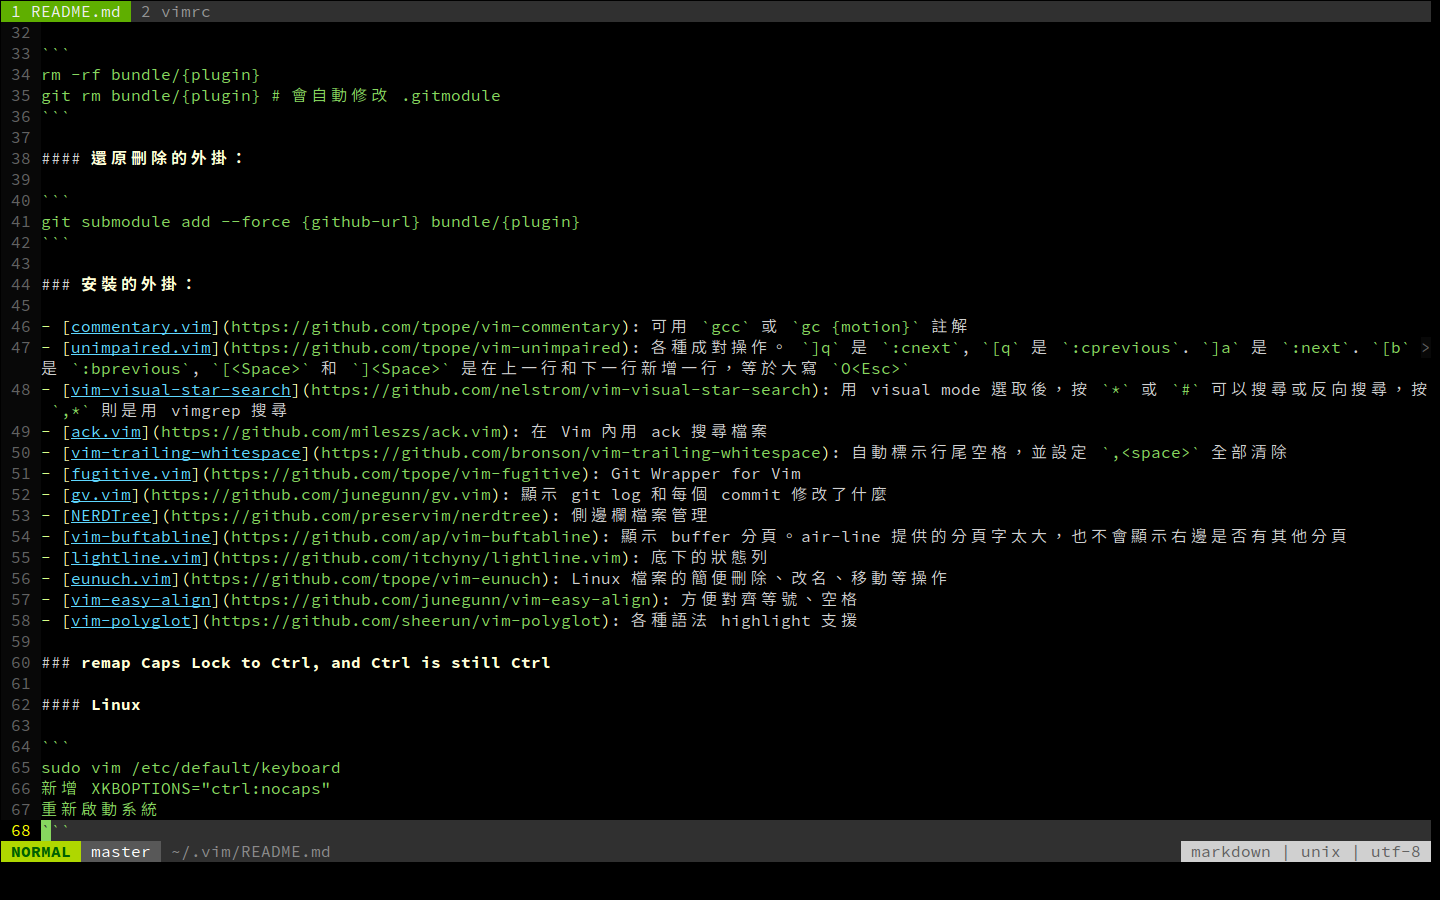
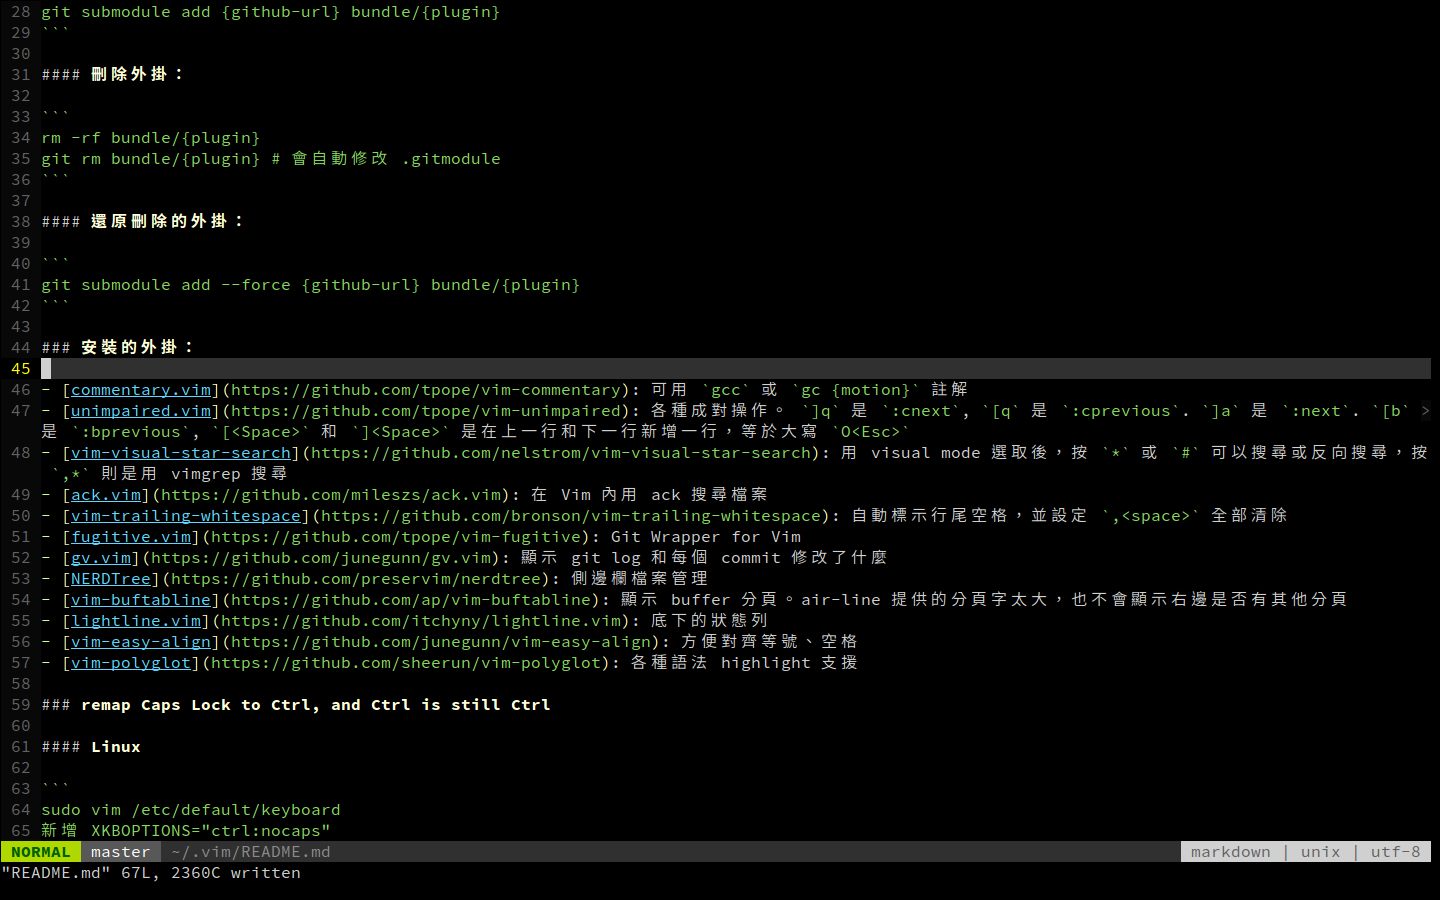
remove tpope/vim-eunuch
居然不能用 :Mkdir -p，所以還是 Ctrl-Z 切換到 shell 比較好

diff --git a/README.md b/README.md
@@ -53,7 +53,6 @@ git submodule add --force {github-url} bundle/{plugin}
 - [NERDTree](https://github.com/preservim/nerdtree): 側邊欄檔案管理
 - [vim-buftabline](https://github.com/ap/vim-buftabline): 顯示 buffer 分頁。air-line 提供的分頁字太大，也不會顯示右邊是否有其他分頁
 - [lightline.vim](https://github.com/itchyny/lightline.vim): 底下的狀態列
-- [eunuch.vim](https://github.com/tpope/vim-eunuch): Linux 檔案的簡便刪除、改名、移動等操作
 - [vim-easy-align](https://github.com/junegunn/vim-easy-align): 方便對齊等號、空格
 - [vim-polyglot](https://github.com/sheerun/vim-polyglot): 各種語法 highlight 支援
 
